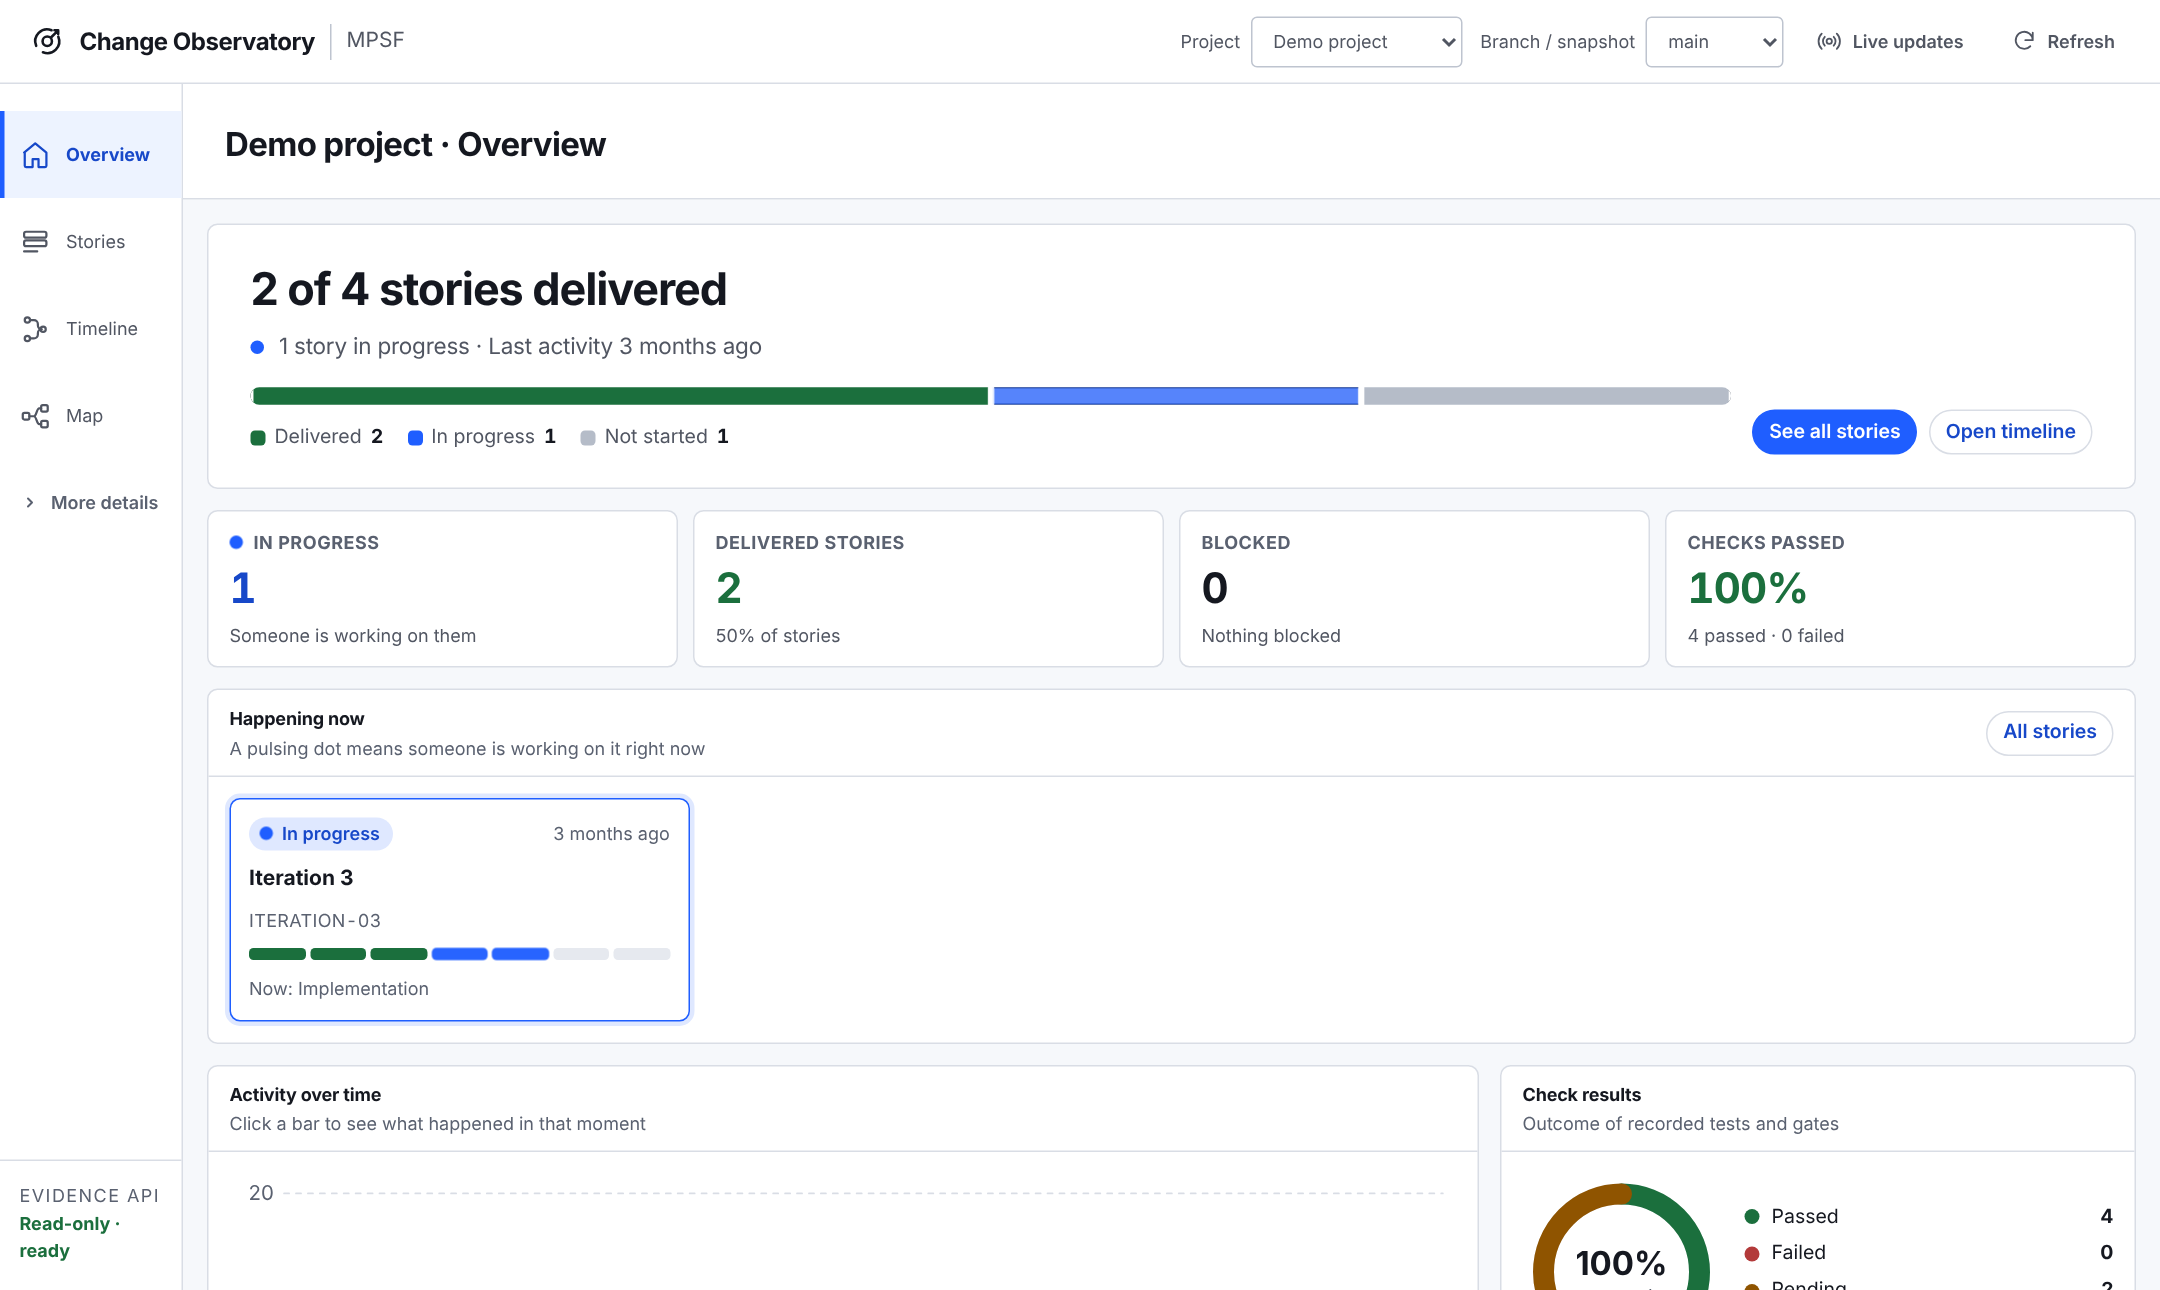
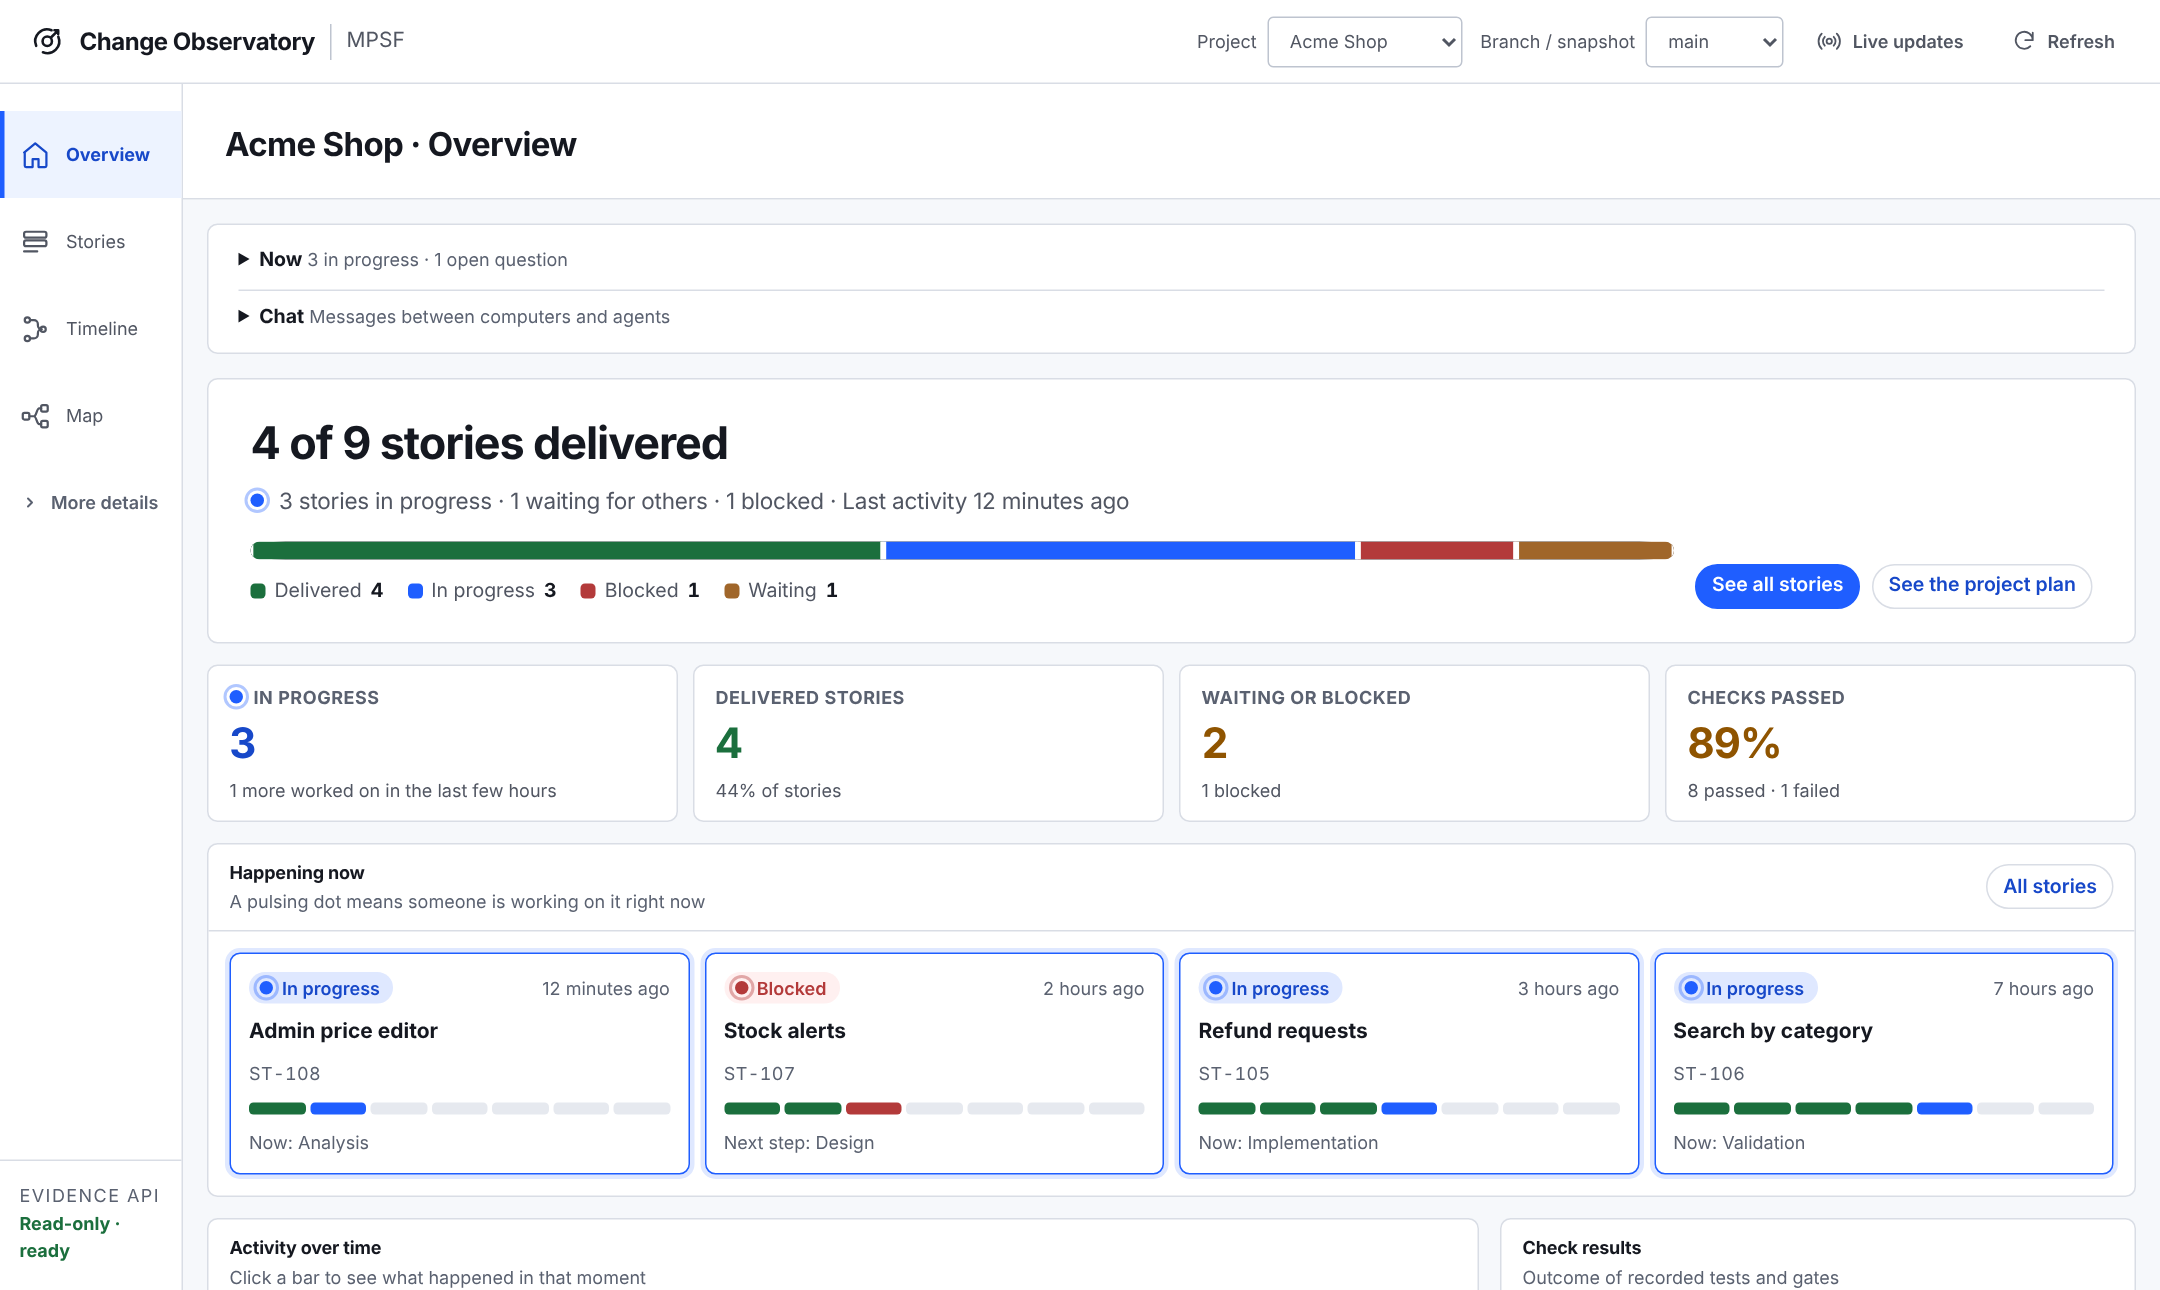
Change Observatory: sample shop screenshots, clearer chat, docs for Now and Chat (1.0.12)

diff --git a/ui/change-observatory/chat-panel.js b/ui/change-observatory/chat-panel.js
@@ -23,7 +23,8 @@ const ITALIAN = Object.freeze({
   propose: "proposta",
   object: "obiezione",
   decide: "decisione",
-  ack: "ok",
+  ack: "concorda",
+  "Agrees.": "Concorda.",
   answer: "risposta",
   question: "domanda",
   request: "richiesta",
@@ -48,8 +49,18 @@ const ITALIAN = Object.freeze({
 const state = { room: null, showAuto: false, open: false, draft: "", target: null, error: null, busy: false };
 const REPLY_KINDS = new Set(["question", "request"]);
 
+// Message kinds as people read them; the wire names stay as they are.
+const ENGLISH = Object.freeze({
+  discuss: "discussion",
+  propose: "proposal",
+  object: "objection",
+  decide: "decision",
+  ack: "agrees",
+  join: "joined",
+});
+
 function label(text) {
-  return getLocale() === "it" ? ITALIAN[text] ?? text : text;
+  return getLocale() === "it" ? ITALIAN[text] ?? text : ENGLISH[text] ?? text;
 }
 
 function roomName(id) {
@@ -93,7 +104,9 @@ function discussionOf(message, byId) {
 }
 
 function messageItem(message, byId, actions) {
-  const { body, action } = splitAction(message.text);
+  const split = splitAction(message.text);
+  const action = split.action;
+  const body = split.body || (message.kind === "ack" ? label("Agrees.") : "");
   const parent = message.replyTo ? byId.get(message.replyTo) : null;
   const flags = [
     message.kind && message.kind !== "info" ? node("span", { className: "now-flag", text: label(message.kind) }) : null,
@@ -210,7 +223,9 @@ export function renderChat(chat, { send = null, onSent = null } = {}) {
 
   function draw() {
     const shown = messages.filter((message) => message.room === state.room && (state.showAuto || !message.auto));
-    const roomList = node("ul", { className: "chat-rooms" }, rooms.map((room) => {
+    // A room with only automatic messages stays out of the list until they are shown.
+    const listed = rooms.filter((room) => state.showAuto || room.people > 0 || room.id === state.room);
+    const roomList = node("ul", { className: "chat-rooms" }, listed.map((room) => {
       const button = node("button", {
         className: `chat-room${room.id === state.room ? " is-active" : ""}`,
         text: `${roomName(room.id)} (${state.showAuto ? room.count : room.people})`,

diff --git a/ui/change-observatory/now-panel.js b/ui/change-observatory/now-panel.js
@@ -132,13 +132,16 @@ function trustFlag(message) {
 }
 
 function senderItem(sender) {
-  const shown = sender.status && sender.status !== sender.last ? [sender.status, sender.last] : [sender.last];
+  // The status and the last message are the same message when the status was sent last; an empty agreement adds nothing.
+  const same = (left, right) => left?.time === right?.time && left?.text === right?.text;
+  const shown = [sender.status, same(sender.status, sender.last) || !String(sender.last?.text ?? "").trim() ? null : sender.last];
+  if (!shown[0] && !shown[1]) shown[1] = sender.last;
   return node("li", { className: "now-item" }, [
     node("strong", { text: sender.from }),
     ...shown.filter(Boolean).map((message) => node("span", { className: "now-meta" }, [
       trustFlag(message),
       node("span", { text: `${String(message.text ?? "").replace(/^\[auto\]\s*/u, "")} ` }),
-      node("time", { text: relativeTime(message.time), attrs: { datetime: message.time } }),
+      node("time", { text: `· ${relativeTime(message.time)}`, attrs: { datetime: message.time } }),
     ])),
   ]);
 }

diff --git a/ui/change-observatory/styles.css b/ui/change-observatory/styles.css
@@ -4224,7 +4224,28 @@ mark {
 
 .chat-button.is-primary {
   margin-top: 6px;
+  padding: 4px 14px;
+  border-color: var(--accent);
+  background: var(--accent);
+  color: var(--on-accent);
   font-weight: 600;
+}
+
+.chat-button:hover {
+  border-color: var(--line-strong);
+  background: var(--surface-muted);
+}
+
+.chat-button.is-primary:hover {
+  border-color: var(--accent-strong);
+  background: var(--accent-strong);
+}
+
+.chat-button:focus-visible,
+.chat-room:focus-visible,
+.chat-input:focus-visible {
+  outline: 2px solid var(--focus-ring);
+  outline-offset: 2px;
 }
 
 .chat-composer {

diff --git a/docs/change-observatory.md b/docs/change-observatory.md
@@ -4,6 +4,16 @@ Change Observatory is the visual, local-first lineage reader bundled with MPSF. 
 
 ![Change Observatory overview with sample data](images/observatory-overview.png)
 
+| Project plan | Stories, dark theme |
+| --- | --- |
+| ![Project plan map: stories in waves, each line from a story to the work it unlocks](images/observatory-map.png) | ![Stories view in the dark theme with status, steps and activity per story](images/observatory-stories-dark.png) |
+
+The screenshots show a sample online shop, not a real project. To make them
+again after a change to the page, run
+`npm install --no-save playwright && npx playwright install chromium && node scripts/observatory-screenshots.mjs`; it starts the
+sample with `node test/helpers/change-observatory-preview-server.mjs --demo`,
+which you can also open in a browser to try the page without a project.
+
 ## Your First Time
 
 Change Observatory is a small web page that runs on your own computer and only
@@ -71,7 +81,24 @@ here), and the ref mode keeps a snapshot under `.git/agentic-sdlc/observatory/`.
    details. Titles and summaries that contain record IDs, paths, or commands
    keep their readable words; only the technical fragment is removed.
 
-6. **If something goes wrong.** A port that is already in use is reported with
+6. **See who is working on what.** On the Overview, the **Now** card shows the
+   stories in progress on every computer, discussions between agents, open
+   questions, free computers and the latest status from each computer. Its
+   title line counts them, so you can keep it closed. Below it, **Chat** shows
+   the project channel as rooms, one per story plus *General*. When messaging
+   is on you can write, reply, agree with or object to a proposal from the page
+   (Ctrl+Enter or Cmd+Enter sends); the message is signed and sent as this
+   computer, like `message send`. Automatic status messages stay hidden until
+   you tick *Show automatic messages*. The other views leave the Now card out
+   and start with their own content. See
+   [Messages between computers](messaging.md) for turning messaging on.
+
+   ![Now and Chat on the Overview of a sample project](images/observatory-now-chat.png)
+
+7. **Light or dark.** The page follows the light or dark setting of your
+   system or browser.
+
+8. **If something goes wrong.** A port that is already in use is reported with
    the suggestion to use `--port 0`. `--host` accepts only `127.0.0.1`; other
    addresses are refused on purpose so that the page is never reachable from
    another computer. If the project settings file (`.sdlc/config.json`) is

diff --git a/CHANGELOG.md b/CHANGELOG.md
@@ -2,6 +2,10 @@
 
 User-visible changes of the plugin, newest first. Design notes live in [docs/plans](docs/plans); this file says what changed for you and what to do about it.
 
+## 1.0.12
+
+- Change Observatory: new screenshots in `docs/images/` made from a sample online shop (overview, Now and Chat, project plan, timeline, stories in the dark theme), and `scripts/observatory-screenshots.mjs` to make them again; `node test/helpers/change-observatory-preview-server.mjs --demo` serves the same sample so you can try the page without a project. Chat: message kinds read as words (discussion, proposal, objection, agrees), an agreement without text says so, rooms with only automatic messages stay out of the list until they are shown, and Send is a clear primary button with visible keyboard focus. The Now card no longer repeats a computer's status line twice, and each time is set apart from the text. The guide [Change Observatory](docs/change-observatory.md) explains Now, Chat and the dark theme. Compatibility: no record, ref or config key changed.
+
 ## 1.0.11
 
 - Docs: new page [See it catch problems in one minute](docs/see-it-work.md). In a throwaway folder you edit one word of the project history and commit a fake key, then read the real output of `trace verify` and `secret scan`. Linked from the README and the docs map. `trace verify` now says "1 event" instead of "1 events". Change Observatory: no change. Compatibility: no record, ref or config key changed.

diff --git a/README.md b/README.md
@@ -176,6 +176,7 @@ MPSF does not replace your agent, your tests or your CI. It adds the agreement a
 
 ## What's new
 
+- **1.0.12** — Change Observatory: sample-project screenshots, Now and Chat documented, clearer chat.
 - **1.0.11** — new page: [see it catch problems in one minute](docs/see-it-work.md).
 - **1.0.10** — local state files written atomically: parallel hooks no longer lose state.
 - **1.0.9** — Stop hook stays within its time limit; long `run` timeouts no longer fire at once.
